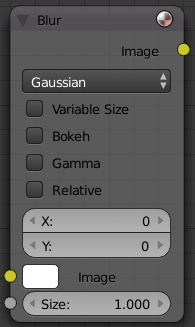
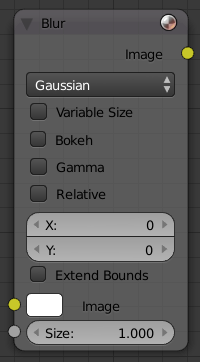
Document Extend Bounds / Cleanup

Changed region(s): [[0.0, 0.0, 0.9846, 1.0], [0.9231, 0.0306, 0.9538, 0.0612]]

diff --git a/manual/compositing/types/filter/blur_node.rst b/manual/compositing/types/filter/blur_node.rst
@@ -9,13 +9,11 @@ Blur Node
 
    Blur Node.
 
-The Blur node blurs an image, using one of seven blur modes
-(set using the upper-left pop-up button), and a radius defined by the X and Y number buttons.
-By default, these are set to zero,
+The Blur node blurs an image, using one of seven blur modes (set using the upper-left pop-up button),
+and a radius defined by the X and Y number buttons. By default, these are set to zero,
 so to enable the node you must set one or both to a value greater than 0.
 You can optionally connect a value image to the Size input node,
-to control the blur radius with a mask.
-The values must be mapped between 0-1 for best effect,
+to control the blur radius with a mask. The values must be mapped between 0-1 for best effect,
 as they will be multiplied with the X and Y number button values.
 
 
@@ -41,14 +39,13 @@ The difference between them is how they handle sharp edges and smooth gradients 
 the highs and the lows.
 In particular, (and you may have to closely examine the full-resolution picture to see this):
 
-Flat
-   Simply blurs everything uniformly
-Tent
-   Preserves the high and the lows better making a linear falloff
-Quadratic
-   CatRom keeps sharp contrast edges crisp.
-Cubic, Mitch
-   Preserve the highs but give an almost out-of-focus blur while smoothing sharp edges
+:Flat: Simply blurs everything uniformly.
+:Tent: Preserves the high and the lows better making a linear falloff.
+:Quadratic: CatRom keeps sharp contrast edges crisp.
+:Cubic / Mitch: Preserve the highs but give an almost out-of-focus blur while smoothing sharp edges.
+
+Extend Bounds
+   Allows the image that is being blurred to extend past its original dimension.
 
 
 Example
